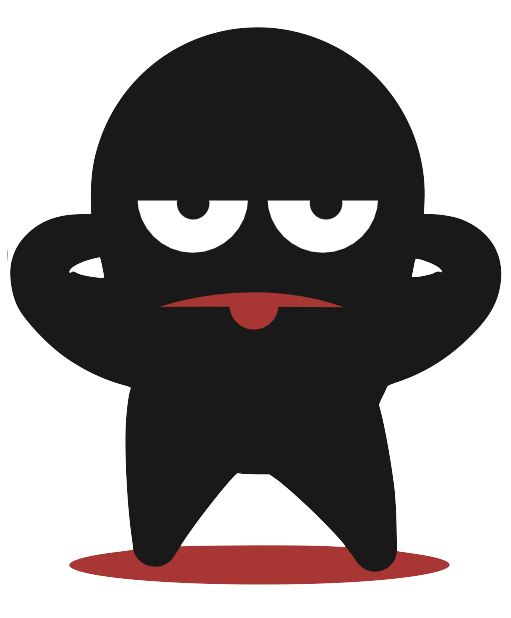
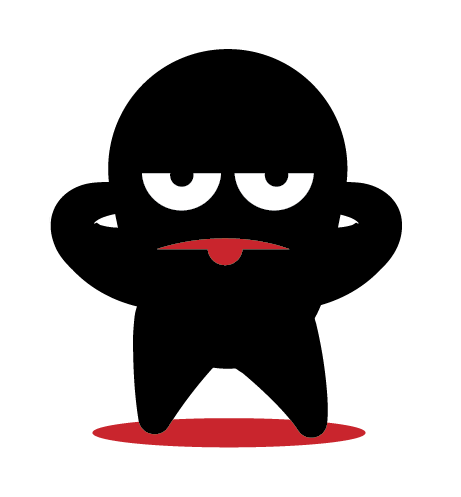
Update with proper imagery of mr tabete

diff --git a/assets/js/random-header.js b/assets/js/random-header.js
@@ -1,11 +1,10 @@
 (function() {
-  // also used in what.md: chopsticks.png, inside.png, sit.png
-  // also used in playbook.md: laptop.png
   var mrtabeteImages = [
-    'angry.png', 'bruh.png', 'engarde.png', 'rice.png',
-    'flag.png', 'laptop.png', 'pants.png',
-    'smile.png', 'transparent.png', 'wave.png',
-    'chopsticks.png', 'inside.png', 'sit.png'
+    "angry.png", "flag.png", "laptop.png",
+    "bottle.png", "highstick.png", "pants.png", "sit.png",
+    "bruh.png", "hole-2.png", "rice.png", "wave.png",
+    "chopsticks.png", "hole.png", "run.png",
+    "fall.png", "inside.png", "shout.png"
   ];
 
   var randomImage = mrtabeteImages[Math.floor(Math.random() * mrtabeteImages.length)];

diff --git a/_pages/playbook.md b/_pages/playbook.md
@@ -1,6 +1,5 @@
 ---
 title: playbook
-header_image: assets/img/mrtabete/transparent.png
 description: Our way of keeping collaboration hot, focused and tastefully informal.
 permalink: /playbook/
 layout: default
@@ -9,16 +8,16 @@ layout: default
 
 ## Playbook
 
-<p class="brand-wrapper">
-  <img src="{{ site.baseurl }}/assets/img/mrtabete/laptop.png" alt="Playbook" class="brand-mark">
-</p>
-
 Our playbook is just enough structure to keep us intentional.
 We're not fans of heavyweight rulebooks, yet we know that having no guard rails breeds inertia and complacency - it's too easy to slip back into old habits and only see what is right in front of you.
 
 We want to stay steadily moving with intent.
 
 ## Gatherings
+
+<p class="brand-wrapper">
+  <img src="{{ site.baseurl }}/assets/img/mrtabete-wide/discuss.png" alt="Playbook" class="brand-mark">
+</p>
 
 ### Kotatsu
 

diff --git a/_pages/crew.md b/_pages/crew.md
@@ -1,13 +1,12 @@
 ---
 title: crew
-header_image: assets/img/mrtabete/pants.png
 description: The people who keep the kotatsu warm and the shichirin sizzling.
 permalink: /crew/
 layout: default
 ---
 
 <p class="brand-wrapper">
-  <img src="{{ site.baseurl }}/assets/img/mrtabete/engarde.png" alt="Community" class="brand-mark">
+  <img src="{{ site.baseurl }}/assets/img/mrtabete-wide/engarde.png" alt="Community" class="brand-mark">
 </p>
 
 **Tabete** is a circle of consultants and friends who believe work is richer when it feels like an open table.

diff --git a/_pages/blog.md b/_pages/blog.md
@@ -1,6 +1,5 @@
 ---
 title: blog & updates
-header_image: assets/img/mrtabete/wave.png
 description: Quick notes & stories from around the kotatsu.
 permalink: /blog/
 layout: default

diff --git a/_pages/what.md b/_pages/what.md
@@ -1,6 +1,5 @@
 ---
 title: concepts
-header_image: assets/img/mrtabete/sit.png
 description: The settings that frame our conversations and craft.
 permalink: /what/
 layout: default
